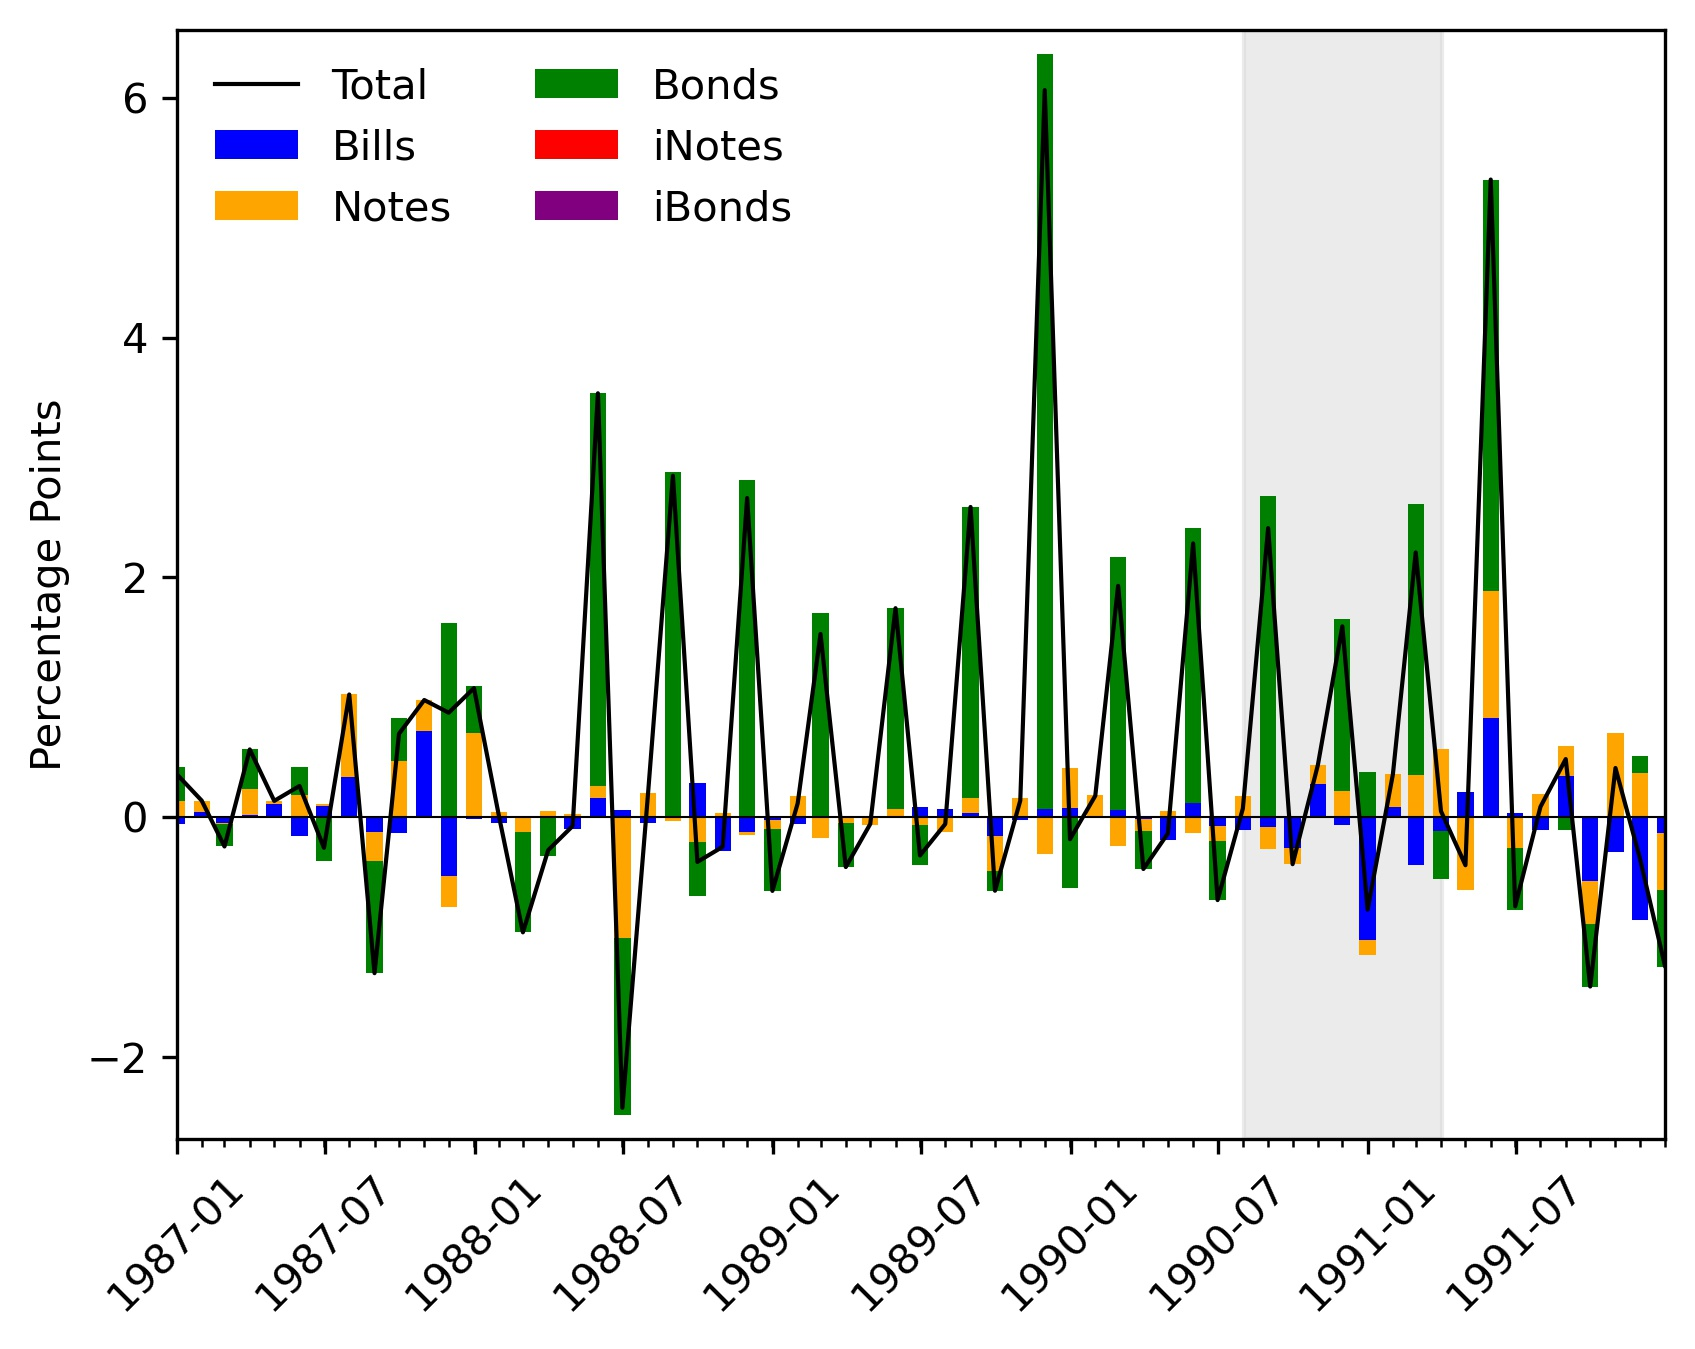
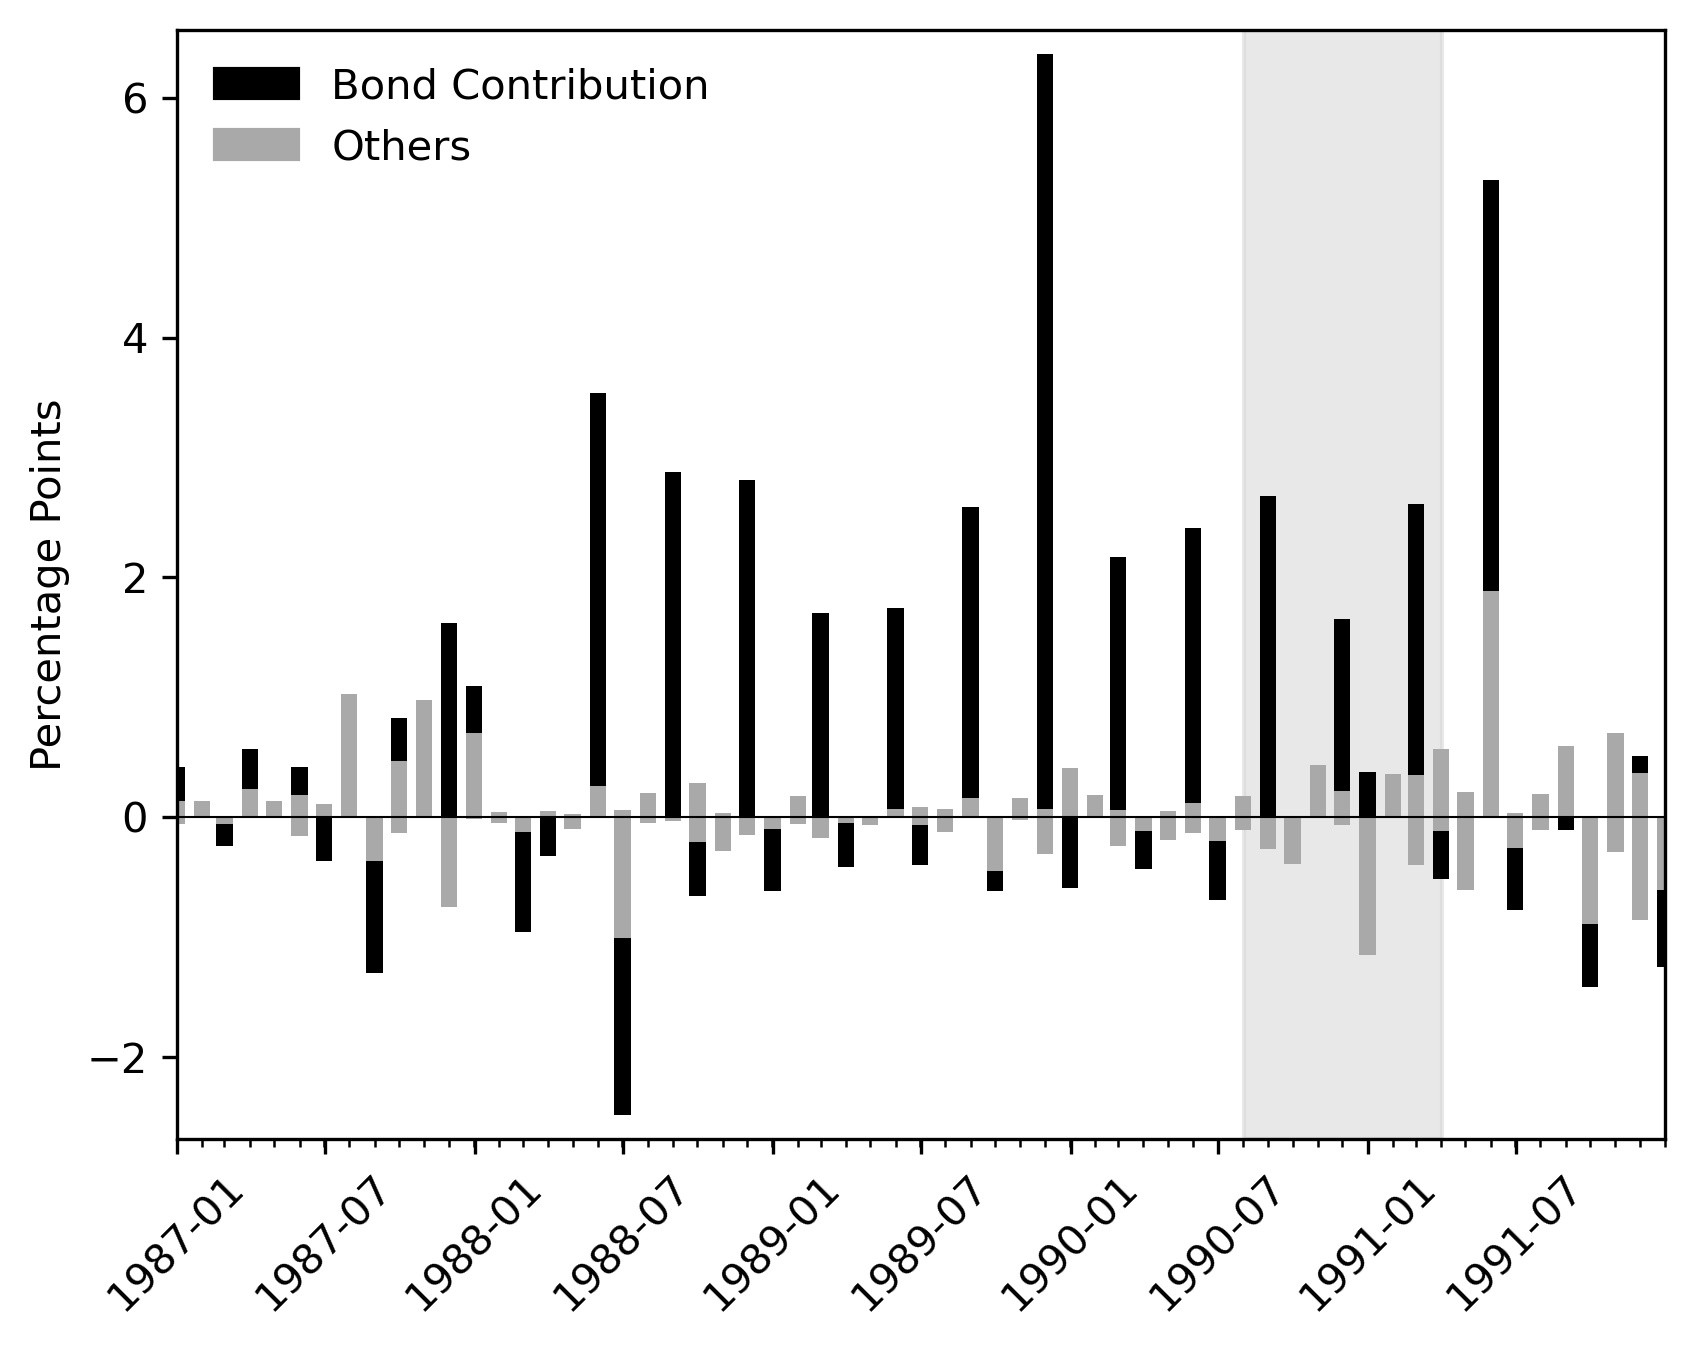
Gray-scaling the figures

Changed region(s): [[0.092, 0.0311, 0.9817, 0.8095], [0.1227, 0.0311, 0.4602, 0.1868]]

diff --git a/Analysis/Contribution_Analysis.py b/Analysis/Contribution_Analysis.py
@@ -3,6 +3,7 @@ import numpy as np
 import matplotlib.pyplot as plt
 import matplotlib.ticker as mtick
 from matplotlib.lines import Line2D
+import matplotlib.patches as mpatches
 import datetime
 from datetime import timedelta
 # import statsmodels.api as sm
@@ -30,8 +31,8 @@ UC_t0 = UC_t1.shift(1)
 QT_t0 = QT_t1.shift(1)
 
 ## Additional Time Series Data
-start = datetime.datetime(1977,1,1)
-end = datetime.datetime(2020,12,31)
+start = datetime.datetime(2009,1,1)
+end = datetime.datetime(2011,12,31)
 ## Recession data from FRED 
 rec_data = (web.DataReader(['USREC'], 'fred', start, end))
 
@@ -155,7 +156,8 @@ cumulative_positive = np.zeros(len(CONTR_MS_TYPE))
 cumulative_negative = np.zeros(len(CONTR_MS_TYPE))
 
 ## Define colors for each series
-colors = ['blue', 'orange', 'green', 'red', 'purple']
+colors = ['silver', 'black', 'grey', 'silver', 'silver']
+# colors = ['blue', 'orange', 'green', 'red', 'purple']
 styles = ['-','-.','-','-','--']
 markers = [None, None, 'o', 'D', None]
 
@@ -172,55 +174,61 @@ if len(recs_start) > len(recs_end):
     recs_end = recs_end.append(pd.Index([rec_data.index[-1]]))
 
 
-## CONTRIBUTION PLOT #####
-# fig, ax = plt.subplots()
+# CONTRIBUTION PLOT #####
+fig, ax = plt.subplots()
 
-# ### Plotting the recession dates
-# for rec_start, rec_end in zip(recs_start, recs_end):
-#     ax.axvspan(rec_start, rec_end, color='0.85', alpha=0.5)
+### Plotting the recession dates
+for rec_start, rec_end in zip(recs_start, recs_end):
+    ax.axvspan(rec_start, rec_end, color='lightgrey', alpha=0.5)
 
-## Looping through the columns and ploting them as stacked bars
-# for i, column in enumerate(CONTR_MS_TYPE.columns):
-#     color = colors[i]
-#     ax.bar(CONTR_MS_TYPE.index, df_positive[column], bottom=cumulative_positive,  width=width_in_days, color=color, label=column)
-#     ax.bar(CONTR_MS_TYPE.index, df_negative[column], bottom=cumulative_negative,  width=width_in_days, color=color)
+# Looping through the columns and ploting them as stacked bars
+for i, column in enumerate(CONTR_MS_TYPE.columns):
+    color = colors[i]
+    ax.bar(CONTR_MS_TYPE.index, df_positive[column], bottom=cumulative_positive,  width=width_in_days, color=color, label=column)
+    ax.bar(CONTR_MS_TYPE.index, df_negative[column], bottom=cumulative_negative,  width=width_in_days, color=color)
     
-#     # Update the cumulative sums
-#     cumulative_positive += df_positive[column].fillna(0)
-#     cumulative_negative += df_negative[column].fillna(0)
-# ## Add a horizontal line at y=0
-# ax.axhline(0, color='black', linewidth=0.5)  
-# ## Add a line for the total: Not great for longer sample periods
+    # Update the cumulative sums
+    cumulative_positive += df_positive[column].fillna(0)
+    cumulative_negative += df_negative[column].fillna(0)
+## Add a horizontal line at y=0
+ax.axhline(0, color='black', linewidth=0.5)  
+## Add a line for the total: Not great for longer sample periods
 # ax.plot(CONTR_MS_TYPE.index, CONTR_MS_TYPE.sum(axis=1), color='black', linewidth=1, label='Total')
-# ## Formatting
-# ax.set_ylabel('Percentage Points')
-# plt.xlim((start, end))
-# ### Automatically adjusting the y-axis limits
-# plt.ylim((cumulative_negative.loc[start:end].min()-0.2, cumulative_positive.loc[start:end].max()+0.2)) 
-# ### Setting the x-axis ticks to include the minor ticks
-# ax.set_xticks(CONTR_MS_TYPE.loc[start:end].index, minor=True)
-# plt.xticks(rotation=45)
+## Formatting
+ax.set_ylabel('Percentage Points')
+plt.xlim((start, end))
+### Automatically adjusting the y-axis limits
+plt.ylim((cumulative_negative.loc[start:end].min()-0.2, cumulative_positive.loc[start:end].max()+0.2)) 
+### Setting the x-axis ticks to include the minor ticks
+ax.set_xticks(CONTR_MS_TYPE.loc[start:end].index, minor=True)
+plt.xticks(rotation=45)
+### Custom Legend 
+#### Create the legend handles
+bonds_patch = mpatches.Patch(color='grey', label='Bond Contribution')
+notes_patch = mpatches.Patch(color='black', label='Note Contribution')
+others_patch = mpatches.Patch(color='silver', label='Others')
+plt.legend(handles=[bonds_patch, notes_patch, others_patch], loc=0, frameon=False)
 # plt.legend(loc=0, frameon=False, ncol=2)
-# filename = 'Contribution_MS_'+str(start.year)+'-'+str(end.year)
-# # plt.savefig(filename+'.jpg', format='jpg', dpi=300, bbox_inches='tight')
-# plt.show()
+filename = 'Contribution_MS_'+str(start.year)+'-'+str(end.year)
+plt.savefig(filename+'.jpg', format='jpg', dpi=300, bbox_inches='tight')
+plt.show()
 
 ## GROWTH RATE PLOTS #####
 
-fig, ax = plt.subplots()
-### Recession dates
-for rec_start, rec_end in zip(recs_start, recs_end):
-    ax.axvspan(rec_start, rec_end, color='0.85', alpha=0.5)
-for i, column in enumerate(GROWTH_MS_TYPE.columns):
-    ax.plot(GROWTH_MS_TYPE.index, GROWTH_MS_TYPE[column], label=column, color=colors[i])
-ax.axhline(0, color='black', linewidth=0.5)
-plt.xlim(datetime.datetime(1978,2,28), datetime.datetime(2020,12,31))
-ax.set_ylabel('Percent')
-ax.set_xlabel(None)
-plt.legend(loc=0, frameon=False, ncol=2)
-filename = 'GrowthRate_MS_Type'
-plt.savefig(filename+'.jpg', format='jpg', dpi=300, bbox_inches='tight')
-plt.show()
+# fig, ax = plt.subplots()
+# ### Recession dates
+# for rec_start, rec_end in zip(recs_start, recs_end):
+#     ax.axvspan(rec_start, rec_end, color='0.85', alpha=0.5)
+# for i, column in enumerate(GROWTH_MS_TYPE.columns):
+#     ax.plot(GROWTH_MS_TYPE.index, GROWTH_MS_TYPE[column], label=column, color=colors[i])
+# ax.axhline(0, color='black', linewidth=0.5)
+# plt.xlim(datetime.datetime(1978,2,28), datetime.datetime(2020,12,31))
+# ax.set_ylabel('Percent')
+# ax.set_xlabel(None)
+# plt.legend(loc=0, frameon=False, ncol=2)
+# filename = 'GrowthRate_MS_Type'
+# plt.savefig(filename+'.jpg', format='jpg', dpi=300, bbox_inches='tight')
+# plt.show()
 
 ### Separate plots for each type of security
 
@@ -239,42 +247,42 @@ plt.show()
 #     plt.savefig(filename+'.jpg', format='jpg', dpi=300, bbox_inches='tight')
 #     plt.show()
 
-## INDEX LEVEL PLOTS #####
-fig, ax = plt.subplots()
-### Recession dates
-for rec_start, rec_end in zip(recs_start, recs_end):
-    ax.axvspan(rec_start, rec_end, color='0.85', alpha=0.5)
-for i, column in enumerate(INDEX_MS_TYPE.columns):
-    ax.plot(INDEX_MS_TYPE.index, INDEX_MS_TYPE[column], label=column, color=colors[i], linestyle=styles[i], marker=None)
-    ax.plot(INDEX_MS_TYPE.index[10::24], INDEX_MS_TYPE[column][10::24], color=colors[i], linestyle='', marker=markers[i])
-ax.axhline(100, color='black', linewidth=0.5)
-plt.xlim(datetime.datetime(1977,2,28), datetime.datetime(2020,12,31))
-ax.set_ylabel('Index = ' + index_start)
-ax.set_xlabel(None)
-# Create a custom legend
-custom_lines = [Line2D([0], [0], color=colors[i], linestyle=styles[i], marker=markers[i]) for i in range(len(INDEX_MS_TYPE.columns))]
-ax.legend(custom_lines, INDEX_MS_TYPE.columns, loc=0, frameon=False, ncol=2)
-# plt.legend(loc=0, frameon=False, ncol=2)
-filename = 'Index_MS_Type'
-plt.savefig(filename+'.jpg', format='jpg', dpi=300, bbox_inches='tight')
-plt.show()
+# ## INDEX LEVEL PLOTS #####
+# fig, ax = plt.subplots()
+# ### Recession dates
+# for rec_start, rec_end in zip(recs_start, recs_end):
+#     ax.axvspan(rec_start, rec_end, color='0.85', alpha=0.5)
+# for i, column in enumerate(INDEX_MS_TYPE.columns):
+#     ax.plot(INDEX_MS_TYPE.index, INDEX_MS_TYPE[column], label=column, color=colors[i], linestyle=styles[i], marker=None)
+#     ax.plot(INDEX_MS_TYPE.index[10::24], INDEX_MS_TYPE[column][10::24], color=colors[i], linestyle='', marker=markers[i])
+# ax.axhline(100, color='black', linewidth=0.5)
+# plt.xlim(datetime.datetime(1977,2,28), datetime.datetime(2020,12,31))
+# ax.set_ylabel('Index = ' + index_start)
+# ax.set_xlabel(None)
+# # Create a custom legend
+# custom_lines = [Line2D([0], [0], color=colors[i], linestyle=styles[i], marker=markers[i]) for i in range(len(INDEX_MS_TYPE.columns))]
+# ax.legend(custom_lines, INDEX_MS_TYPE.columns, loc=0, frameon=False, ncol=2)
+# # plt.legend(loc=0, frameon=False, ncol=2)
+# filename = 'Index_MS_Type'
+# plt.savefig(filename+'.jpg', format='jpg', dpi=300, bbox_inches='tight')
+# plt.show()
 
-## INDEX LEVEL PLOTS #####
-fig, ax = plt.subplots()
-### Recession dates
-for rec_start, rec_end in zip(recs_start, recs_end):
-    ax.axvspan(rec_start, rec_end, color='0.85', alpha=0.5)
-for i, column in enumerate(INDEX_MS_BOND.columns):
-    ax.plot(INDEX_MS_BOND.index, INDEX_MS_BOND[column], label=column, color=colors[i], linestyle=styles[i], marker=None)
-    ax.plot(INDEX_MS_BOND.index[10::24], INDEX_MS_BOND[column][10::24], color=colors[i], linestyle='', marker=markers[i])
-ax.axhline(100, color='black', linewidth=0.5)
-plt.xlim(datetime.datetime(1977,2,28), datetime.datetime(2020,12,31))
-ax.set_ylabel('Index = ' + index_start)
-ax.set_xlabel(None)
-# Create a custom legend
-custom_lines = [Line2D([0], [0], color=colors[i], linestyle=styles[i], marker=markers[i]) for i in range(len(INDEX_MS_BOND.columns))]
-ax.legend(custom_lines, INDEX_MS_BOND.columns, loc=0, frameon=False, ncol=2)
-ax.set_title('Monetary Services of Bonds by Time to Maturity')
-filename = 'Index_MS_Bond'
-plt.savefig(filename+'.jpg', format='jpg', dpi=300, bbox_inches='tight')
-plt.show()
+# ## INDEX LEVEL PLOTS #####
+# fig, ax = plt.subplots()
+# ### Recession dates
+# for rec_start, rec_end in zip(recs_start, recs_end):
+#     ax.axvspan(rec_start, rec_end, color='0.85', alpha=0.5)
+# for i, column in enumerate(INDEX_MS_BOND.columns):
+#     ax.plot(INDEX_MS_BOND.index, INDEX_MS_BOND[column], label=column, color=colors[i], linestyle=styles[i], marker=None)
+#     ax.plot(INDEX_MS_BOND.index[10::24], INDEX_MS_BOND[column][10::24], color=colors[i], linestyle='', marker=markers[i])
+# ax.axhline(100, color='black', linewidth=0.5)
+# plt.xlim(datetime.datetime(1977,2,28), datetime.datetime(2020,12,31))
+# ax.set_ylabel('Index = ' + index_start)
+# ax.set_xlabel(None)
+# # Create a custom legend
+# custom_lines = [Line2D([0], [0], color=colors[i], linestyle=styles[i], marker=markers[i]) for i in range(len(INDEX_MS_BOND.columns))]
+# ax.legend(custom_lines, INDEX_MS_BOND.columns, loc=0, frameon=False, ncol=2)
+# ax.set_title('Monetary Services of Bonds by Time to Maturity')
+# filename = 'Index_MS_Bond'
+# plt.savefig(filename+'.jpg', format='jpg', dpi=300, bbox_inches='tight')
+# plt.show()
